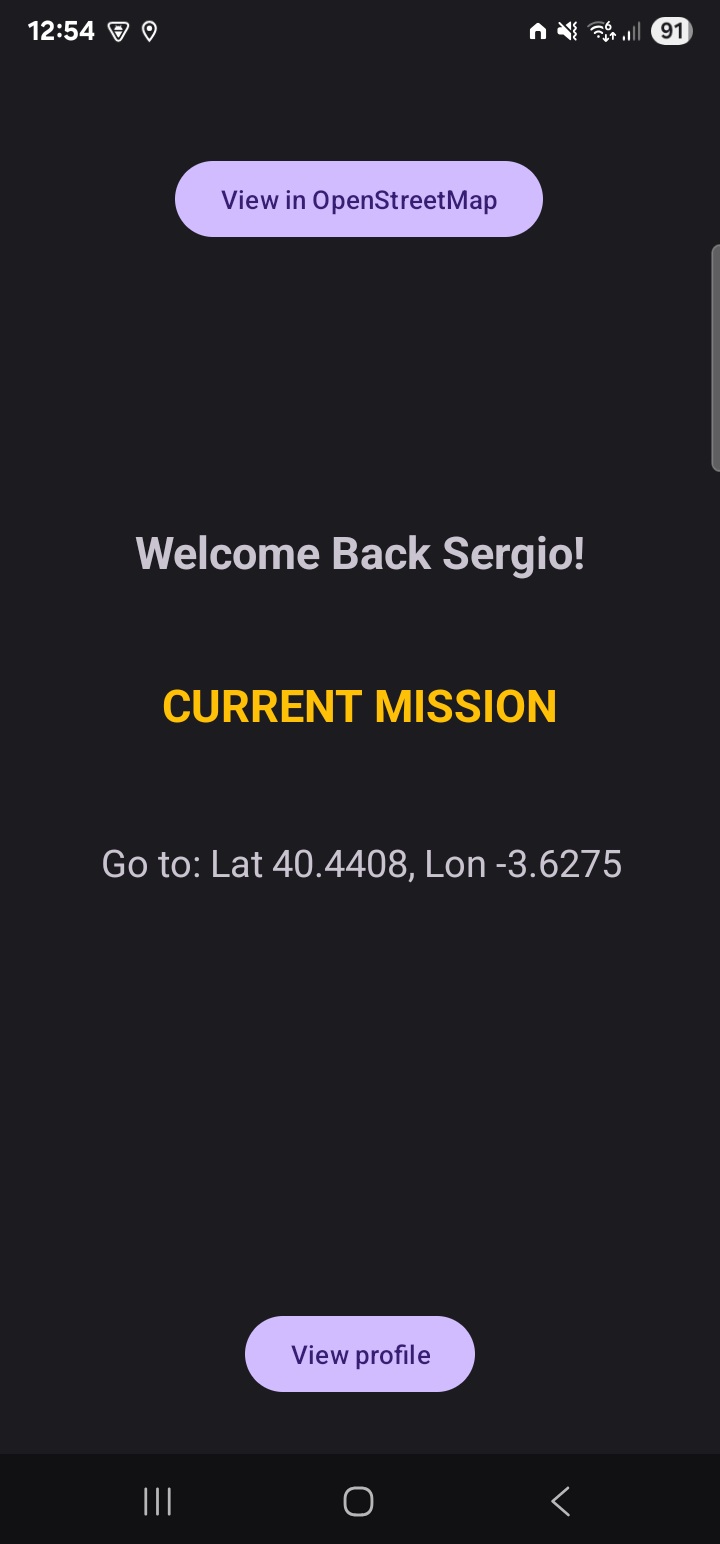
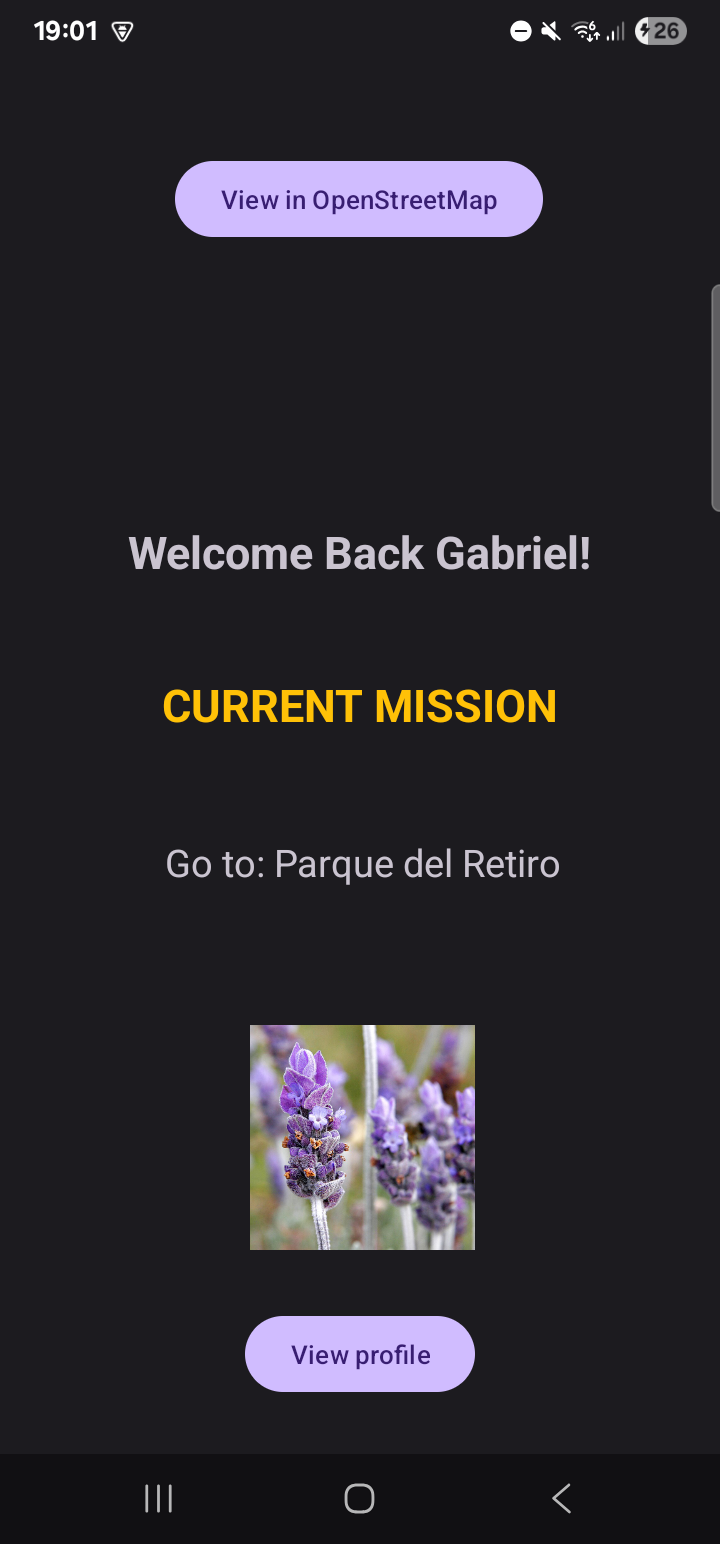
Update README images

diff --git a/README.md b/README.md
@@ -75,6 +75,6 @@ Related pull requests:
 
 ## Screenshots of the App
 
-| ![App view](readme/LandingActivity.jpeg "Landing activity") | ![App view](readme/MainActivity.png "Main activity") | ![App view](readme/OpenStreetMapActivity.png "OpenStreetMaps activity") | ![App view](readme/ProfileActivity.jpeg "Profile activity") | ![App view](readme/ThirdActivity.png "Third activity") |
-|:-----------------------------------------------------------:|:----------------------------------------------------:|:-----------------------------------------------------------------------:|:-----------------------------------------------------------:|:------------------------------------------------------:|
-|                     *Landing Activity*                      |                   *Main Activity*                    |                        *OpenStreetMaps Activity*                        |                      *Second Activity*                      |                    *Third Activity*                    |
+| ![App view](readme/LandingActivity.jpeg "Landing activity") | ![App view](readme/MainActivity.png "Main activity") | ![App view](readme/OpenStreetMapActivity.png "OpenStreetMaps activity") | ![App view](readme/ProfileActivity.jpeg "Profile activity") | ![App view](readme/RankingActivity.png "Third activity") |
+|:-----------------------------------------------------------:|:----------------------------------------------------:|:-----------------------------------------------------------------------:|:-----------------------------------------------------------:|:--------------------------------------------------------:|
+|                     *Landing Activity*                      |                   *Main Activity*                    |                        *OpenStreetMaps Activity*                        |                     *Profile Activity*                      |                    *Ranking Activity*                    |
